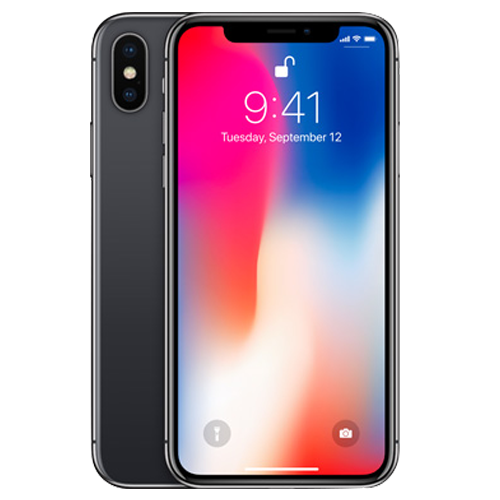
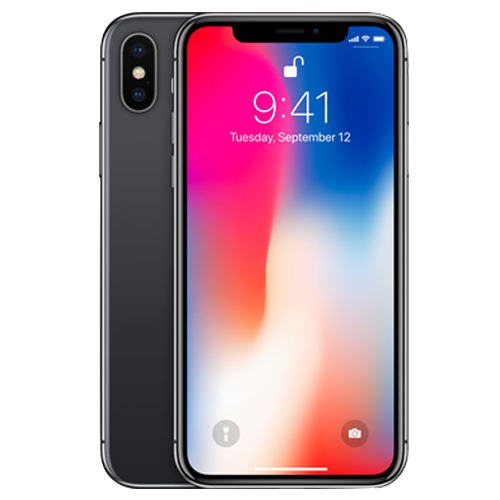
+iphone page

diff --git a/app/views/iphone.view.php b/app/views/iphone.view.php
@@ -26,7 +26,7 @@
 			<div class="col-md-3">
 				<div class="iphone-item">
 					<a href="#">
-						<img src="public/images/iphoneX_silver_large.jpg">
+						<img src="public/images/iphone-x-64G.png">
 						<h5>iPhone X 64GB</h5>
 						<p><b>From $999</b></p>
 						<a href="https://www.w3schools.com" target="_blank"><button type="button" class="btn btn-dark">Learn more</button></a>
@@ -38,7 +38,7 @@
 			<div class=" col-md-3">
 				<div class="iphone-item">
 					<a href="#">
-						<img src="public/images/iphone8plus_gold_large.jpg">
+						<img src="public/images/iphone8plus-256G.png">
 						<h5>iPhone 8 Plus 256GB</h5>
 						<p><b>From $949</b></p>
 						<a href="https://www.w3schools.com" target="_blank"><button type="button" class="btn btn-dark">Learn more</button></a>
@@ -50,7 +50,7 @@
 			<div class="col-md-3">
 				<div class="iphone-item">
 					<a href="#">
-						<img src="public/images/iphone8plus_silver_large.jpg">
+						<img src="public/images/iphone8plus-64G.png">
 						<h5>iPhone 8 Plus 64GB</h5>
 						<p><b>From $799</b></p>
 						<a href="https://www.w3schools.com" target="_blank"><button type="button" class="btn btn-dark">Learn more</button></a>
@@ -64,7 +64,7 @@
 			<div class="col-md-3">
 				<div class="iphone-item">
 					<a href="#">
-						<img src="public/images/iphone8_spacegray_large.jpg">
+						<img src="public/images/iphone8-256GB.png">
 						<h5>iPhone 8 256GB</h5>
 						<p><b>From $849</b></p>
 						<a href="https://www.w3schools.com" target="_blank"><button type="button" class="btn btn-dark">Learn more</button></a>
@@ -76,7 +76,7 @@
 			<div class="col-md-3">
 				<div class="iphone-item">
 					<a href="#">
-						<img src="public/images/iphone8.jpg">
+						<img src="public/images/iphone8-64G.png">
 						<h5>iPhone 8 64GB</h5>
 						<p><b>From $699</b></p>
 						<a href="https://www.w3schools.com" target="_blank"><button type="button" class="btn btn-dark">Learn more</button></a>
